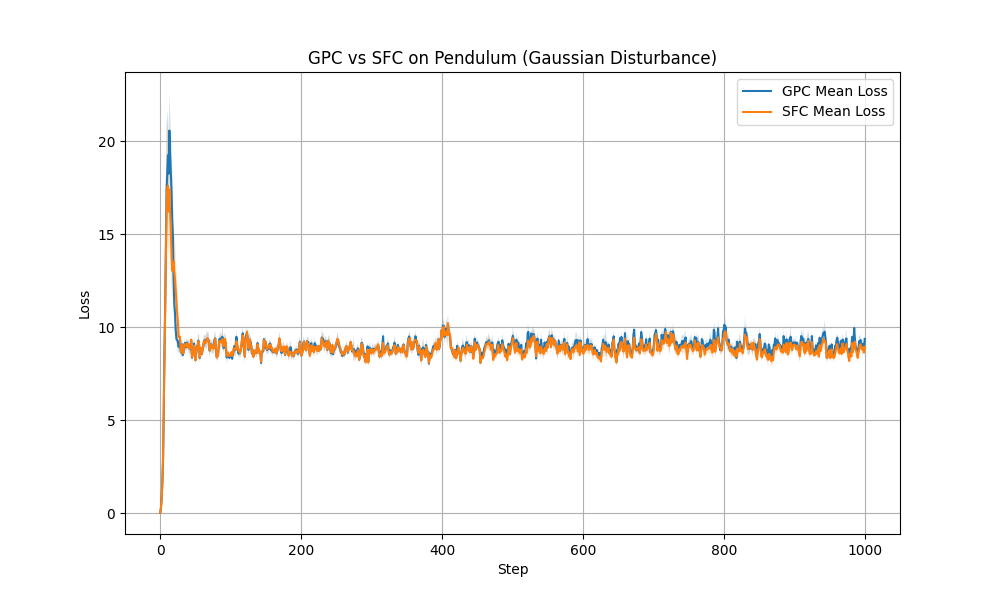
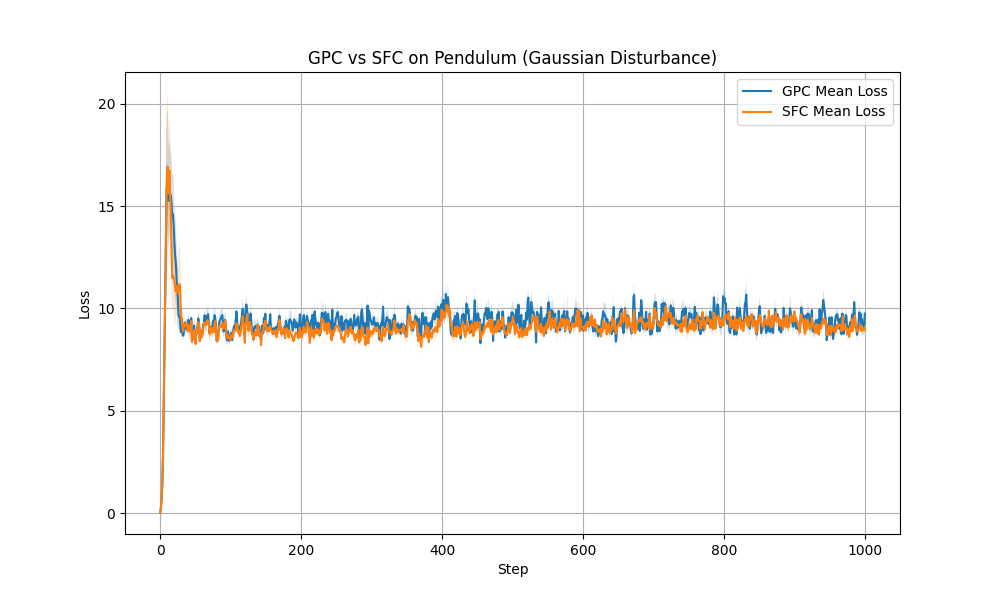
lds nn vs linear model comp

diff --git a/deluca/experimental/experiments/lds_experiment.py b/deluca/experimental/experiments/lds_experiment.py
@@ -187,30 +187,28 @@ def main():
     spec = importlib.util.spec_from_file_location("config", args.config)
     config = importlib.util.module_from_spec(spec)
     spec.loader.exec_module(config)
-
-    # Determine results directory based on model type
+    
+    # Setup results directory
     base_results_dir = "lds_results"
-    if config.hidden_dims is None:
-        model_dir_name = "linear_model"
-    else:
-        model_dir_name = "neural_net_model"
-    results_dir = os.path.join(base_results_dir, model_dir_name)
+    results_dir = os.path.join(base_results_dir, "model_comparison")
     os.makedirs(results_dir, exist_ok=True)
 
     # Set random seed
     key = jax.random.PRNGKey(config.seed)
 
-    print("--- Creating System and Cost Matrices ---")
-    # Create random system
-    key, A_B_key = jax.random.split(key)
+    print("--- Creating a Common Set of Environments and Costs ---")
+    # Create a single set of system/cost matrices for all trials
+    key, env_key = jax.random.split(key)
     A, B = create_random_system(
-        A_B_key, config.d, config.n, config.min_eig, config.max_eig
+        env_key, config.d, config.n, config.min_eig, config.max_eig
     )
+    key, cost_key = jax.random.split(key)
+    Q, R = create_random_cost_matrices(cost_key, config.d, config.n)
 
-    # Create random cost matrices
-    key, Q_R_key = jax.random.split(key)
-    Q, R = create_random_cost_matrices(Q_R_key, config.d, config.n)
-
+    # Create a single set of trial keys for all experiments
+    key, trial_key_master = jax.random.split(key)
+    trial_keys = jax.random.split(trial_key_master, config.num_trials)
+    
     # Create optimizer
     optimizer = optax.chain(
         optax.clip_by_global_norm(config.R_M), optax.adam(config.learning_rate)
@@ -219,8 +217,9 @@ def main():
     disturbance_types = config.disturbance_params.keys()
 
     for disturbance_type in disturbance_types:
-        print(f"--- Running experiment for disturbance type: {disturbance_type} ---")
-        # Create disturbance
+        print(f"\n--- Running Experiment for Disturbance Type: {disturbance_type.upper()} ---")
+        
+        # Create disturbance function for this type
         disturbance_params = config.disturbance_params[disturbance_type]
         if disturbance_type == "sinusoidal":
             disturbance = lambda d, dist_std, t, key: sinusoidal_disturbance(
@@ -239,116 +238,75 @@ def main():
         else:
             raise ValueError(f"Unknown disturbance type: {disturbance_type}")
 
-        # Generate a common set of trial keys for this disturbance type
-        key, trial_key_master = jax.random.split(key)
-        trial_keys = jax.random.split(trial_key_master, config.num_trials)
+        all_losses = {}
 
-        # --- Run GPC ---
-        print("--- Creating GPC Model ---")
-        gpc_model = GPCModel(
-            d=config.d,
-            n=config.n,
-            m=config.m,
-            k=config.k,
-            hidden_dims=config.hidden_dims,
-        )
+        # --- LINEAR MODELS ---
+        print("\n-- Evaluating LINEAR Models --")
+        # GPC (Linear)
+        gpc_linear_model = GPCModel(d=config.d, n=config.n, m=config.m, k=config.k, hidden_dims=None)
+        vmapped_gpc_linear_run = jax.vmap(functools.partial(run_trial, A=A, B=B, Q=Q, R=R, model=gpc_linear_model, optimizer=optimizer, disturbance=disturbance, d=config.d, m=config.m, num_steps=config.num_steps), in_axes=(0))
+        all_losses['gpc_linear'] = jax.jit(vmapped_gpc_linear_run)(trial_keys)
+        print("GPC (Linear) trials complete.")
 
-        print(f"--- Starting {config.num_trials} GPC Trials (vmapped) ---")
-        vmapped_gpc_run_trial = jax.vmap(
-            functools.partial(
-                run_trial,
-                A=A,
-                B=B,
-                Q=Q,
-                R=R,
-                model=gpc_model,
-                optimizer=optimizer,
-                disturbance=disturbance,
-                d=config.d,
-                m=config.m,
-                num_steps=config.num_steps,
-            ),
-            in_axes=(0),
-        )
-        jitted_gpc_run_trial = jax.jit(vmapped_gpc_run_trial)
-        print("Compiling and running GPC trials...")
-        gpc_losses = jitted_gpc_run_trial(trial_keys)
-        gpc_losses.block_until_ready()
-        print("--- GPC trials completed ---")
+        # SFC (Linear)
+        sfc_linear_model = SFCModel(d=config.d, n=config.n, m=config.m, h=config.h, k=config.k, gamma=config.gamma, hidden_dims=None)
+        vmapped_sfc_linear_run = jax.vmap(functools.partial(run_trial, A=A, B=B, Q=Q, R=R, model=sfc_linear_model, optimizer=optimizer, disturbance=disturbance, d=config.d, m=config.m, num_steps=config.num_steps), in_axes=(0))
+        all_losses['sfc_linear'] = jax.jit(vmapped_sfc_linear_run)(trial_keys)
+        print("SFC (Linear) trials complete.")
 
-        # --- Run SFC ---
-        print("--- Creating SFC Model ---")
-        sfc_model = SFCModel(
-            d=config.d,
-            n=config.n,
-            m=config.m,
-            h=config.h,
-            k=config.k,
-            gamma=config.gamma,
-            hidden_dims=config.hidden_dims,
-        )
+        # --- NEURAL NETWORK MODELS ---
+        print("\n-- Evaluating NEURAL NET Models --")
+        # GPC (NN)
+        gpc_nn_model = GPCModel(d=config.d, n=config.n, m=config.m, k=config.k, hidden_dims=config.hidden_dims_nn)
+        vmapped_gpc_nn_run = jax.vmap(functools.partial(run_trial, A=A, B=B, Q=Q, R=R, model=gpc_nn_model, optimizer=optimizer, disturbance=disturbance, d=config.d, m=config.m, num_steps=config.num_steps), in_axes=(0))
+        all_losses['gpc_nn'] = jax.jit(vmapped_gpc_nn_run)(trial_keys)
+        print("GPC (NN) trials complete.")
 
-        print(f"--- Starting {config.num_trials} SFC Trials (vmapped) ---")
-        vmapped_sfc_run_trial = jax.vmap(
-            functools.partial(
-                run_trial,
-                A=A,
-                B=B,
-                Q=Q,
-                R=R,
-                model=sfc_model,
-                optimizer=optimizer,
-                disturbance=disturbance,
-                d=config.d,
-                m=config.m,
-                num_steps=config.num_steps,
-            ),
-            in_axes=(0),
-        )
-        jitted_sfc_run_trial = jax.jit(vmapped_sfc_run_trial)
-        print("Compiling and running SFC trials...")
-        sfc_losses = jitted_sfc_run_trial(trial_keys)
-        sfc_losses.block_until_ready()
-        print("--- SFC trials completed ---")
+        # SFC (NN)
+        sfc_nn_model = SFCModel(d=config.d, n=config.n, m=config.m, h=config.h, k=config.k, gamma=config.gamma, hidden_dims=config.hidden_dims_nn)
+        vmapped_sfc_nn_run = jax.vmap(functools.partial(run_trial, A=A, B=B, Q=Q, R=R, model=sfc_nn_model, optimizer=optimizer, disturbance=disturbance, d=config.d, m=config.m, num_steps=config.num_steps), in_axes=(0))
+        all_losses['sfc_nn'] = jax.jit(vmapped_sfc_nn_run)(trial_keys)
+        print("SFC (NN) trials complete.")
+
+        for name, losses in all_losses.items():
+            losses.block_until_ready()
+            print(f"All {name.upper()} trials finished computation.")
 
         # --- Process and Plot Results ---
-        gpc_mean_losses = jnp.mean(gpc_losses, axis=0)
-        gpc_std_losses = jnp.std(gpc_losses, axis=0) / jnp.sqrt(config.num_trials)
+        plt.figure(figsize=(12, 8))
         
-        sfc_mean_losses = jnp.mean(sfc_losses, axis=0)
-        sfc_std_losses = jnp.std(sfc_losses, axis=0) / jnp.sqrt(config.num_trials)
+        plot_configs = {
+            'gpc_linear': {'label': 'GPC (Linear)', 'color': 'blue'},
+            'sfc_linear': {'label': 'SFC (Linear)', 'color': 'green'},
+            'gpc_nn': {'label': 'GPC (NN)', 'color': 'red'},
+            'sfc_nn': {'label': 'SFC (NN)', 'color': 'purple'},
+        }
 
-        plt.figure(figsize=(10, 6))
-        
-        # Plot GPC
-        plt.plot(gpc_mean_losses, label="GPC Mean Loss")
-        plt.fill_between(
-            range(len(gpc_mean_losses)),
-            gpc_mean_losses - gpc_std_losses,
-            gpc_mean_losses + gpc_std_losses,
-            alpha=0.2,
-        )
-        
-        # Plot SFC
-        plt.plot(sfc_mean_losses, label="SFC Mean Loss")
-        plt.fill_between(
-            range(len(sfc_mean_losses)),
-            sfc_mean_losses - sfc_std_losses,
-            sfc_mean_losses + sfc_std_losses,
-            alpha=0.2,
-        )
+        for name, losses in all_losses.items():
+            mean_losses = jnp.mean(losses, axis=0)
+            std_losses = jnp.std(losses, axis=0) / jnp.sqrt(config.num_trials)
+            
+            plt.plot(mean_losses, label=plot_configs[name]['label'], color=plot_configs[name]['color'])
+            plt.fill_between(
+                range(len(mean_losses)),
+                mean_losses - std_losses,
+                mean_losses + std_losses,
+                alpha=0.2,
+                color=plot_configs[name]['color']
+            )
 
         plt.xlabel("Step")
         plt.ylabel("Loss")
-        plt.title(f"GPC vs SFC Performance ({disturbance_type.capitalize()} Disturbance)")
+        plt.title(f"Model Comparison on LDS ({disturbance_type.capitalize()} Disturbance)")
         plt.legend()
         plt.grid(True)
-
+        
         # Save the figure
-        filename = f"GPC_vs_SFC_performance_{disturbance_type}.png"
+        filename = f"model_comparison_{disturbance_type}.png"
         filepath = os.path.join(results_dir, filename)
         plt.savefig(filepath)
-        print(f"Plot saved to {filepath}")
+        print(f"Comparison plot saved to {filepath}")
+
 
 if __name__ == "__main__":
     main() 

diff --git a/deluca/experimental/experiments/pendulum_config.py b/deluca/experimental/experiments/pendulum_config.py
@@ -18,7 +18,7 @@ m_sfc = 10  # history length for SFC
 h_sfc = 5   # filter horizon for SFC
 k_sfc = 5   # action horizon for SFC
 gamma = 0.9
-hidden_dims = [8]
+hidden_dims = [64,64]
 
 # Disturbance parameters
 disturbance_params = {

diff --git a/deluca/experimental/experiments/lds_config.py b/deluca/experimental/experiments/lds_config.py
@@ -11,6 +11,7 @@ k = 5 # Action horizon, must be <= m for GPC, and == h for SFC
 h = 4
 gamma = 0.9
 hidden_dims = None
+hidden_dims_nn = [8]
 
 # Disturbance parameters
 disturbance_params = {
